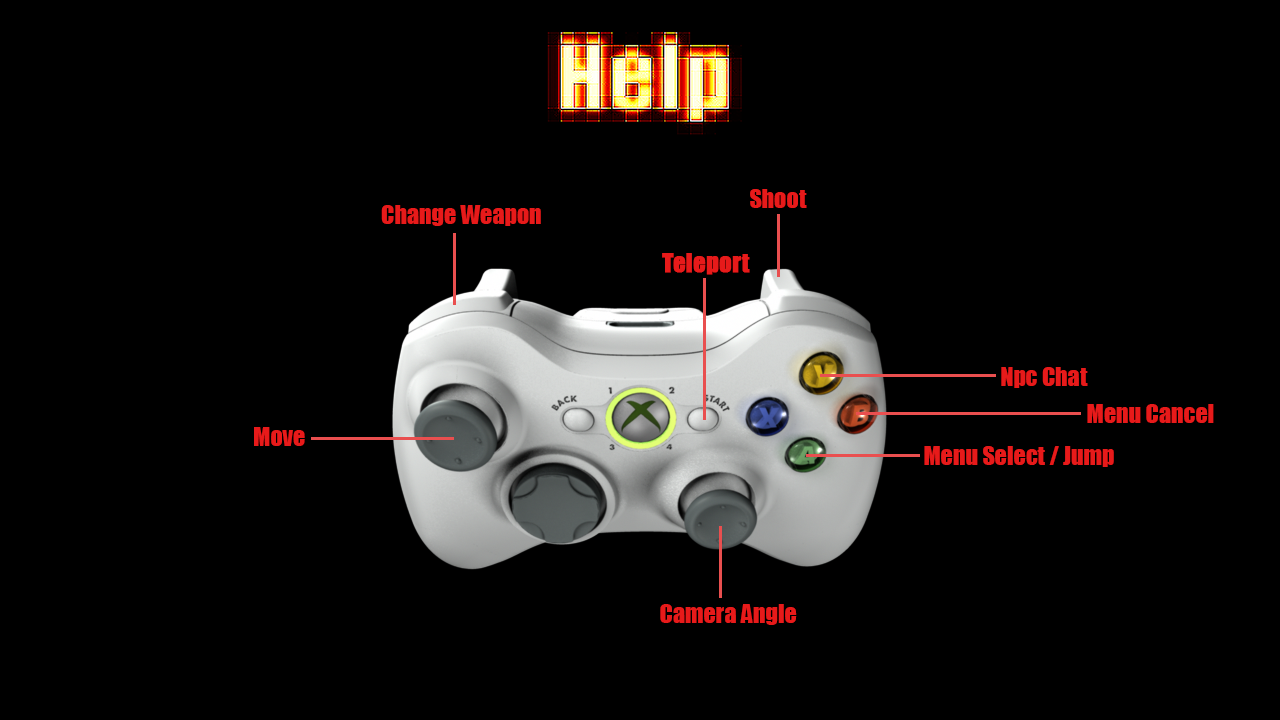
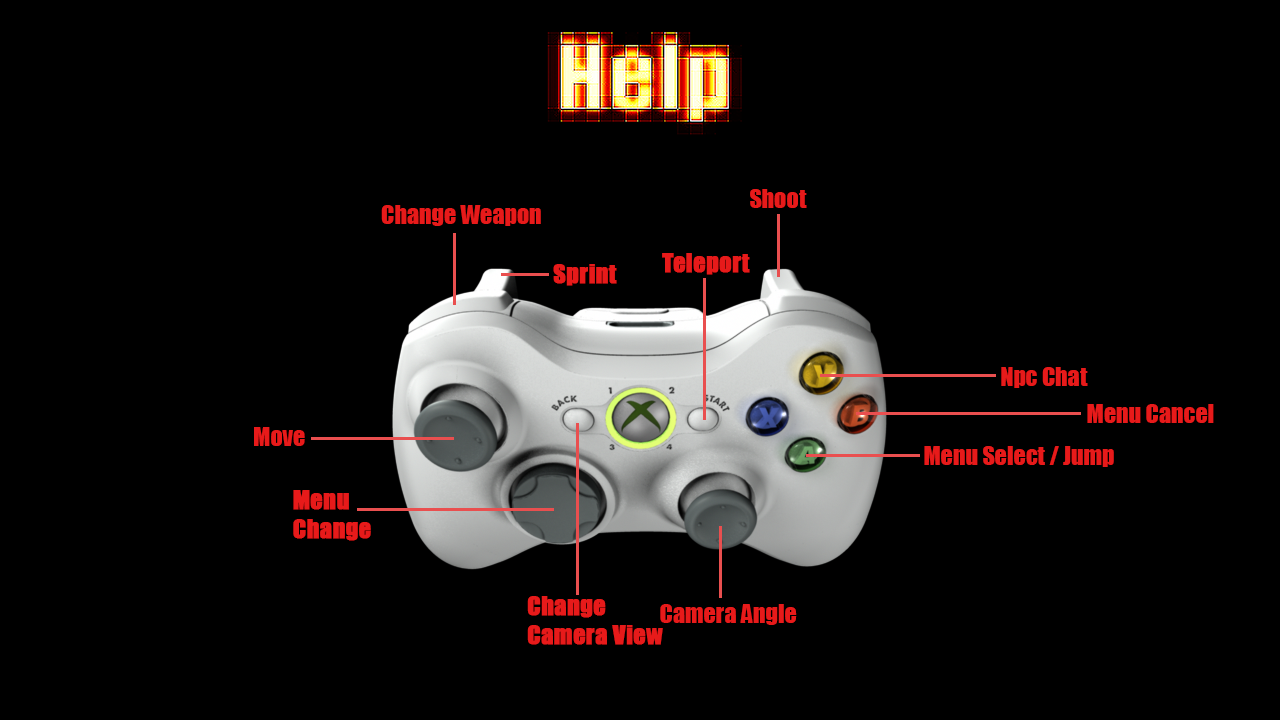
bug

Changed region(s): [[0.2188, 0.6722, 0.4375, 0.7639], [0.4062, 0.825, 0.5312, 0.9167], [0.4062, 0.3667, 0.5, 0.3972]]

diff --git a/CA2/GameScene.cpp b/CA2/GameScene.cpp
@@ -526,12 +526,19 @@ void GameScene::HandleInput(float dt)
 	{
 		move = mpGamepad->GetVector(0, LEFT_X, NONE, LEFT_Y);
 		turn = mpGamepad->GetVector(0, RIGHT_Y_INV, RIGHT_X, NONE) / 5; //reduce sensitivity
-		if (mpGamepad->IsButtonDown(0, XINPUT_GAMEPAD_A))
+		if (mpGamepad->IsButtonPressed2(0, XINPUT_GAMEPAD_A))
 			mpPlayer->Jump();
 		if (mpGamepad->GetLeftTrigger(0) > 0)
 			mpPlayer->SPEED = 20.0f;
 		else
 			mpPlayer->SPEED = 10.0f;
+		if (mpGamepad->IsButtonPressed3(0, XINPUT_GAMEPAD_BACK))
+		{
+			if (mCamera.mMode == 1)
+				mCamera.mMode = 0;
+			else
+				mCamera.mMode = 1;
+		}
 
 		if (mpGamepad->GetRightTrigger(0) > 0)
 		{

diff --git a/CA2/Scene.h b/CA2/Scene.h
@@ -62,7 +62,6 @@ class GameScene : public CScene
 	static const int tele_CD = 15000;
 	clock_t tele_used_time;
 	bool teleportToBoss;
-
 	bool teleAvailable;
 
 	ID3DXFont* gameFont;
